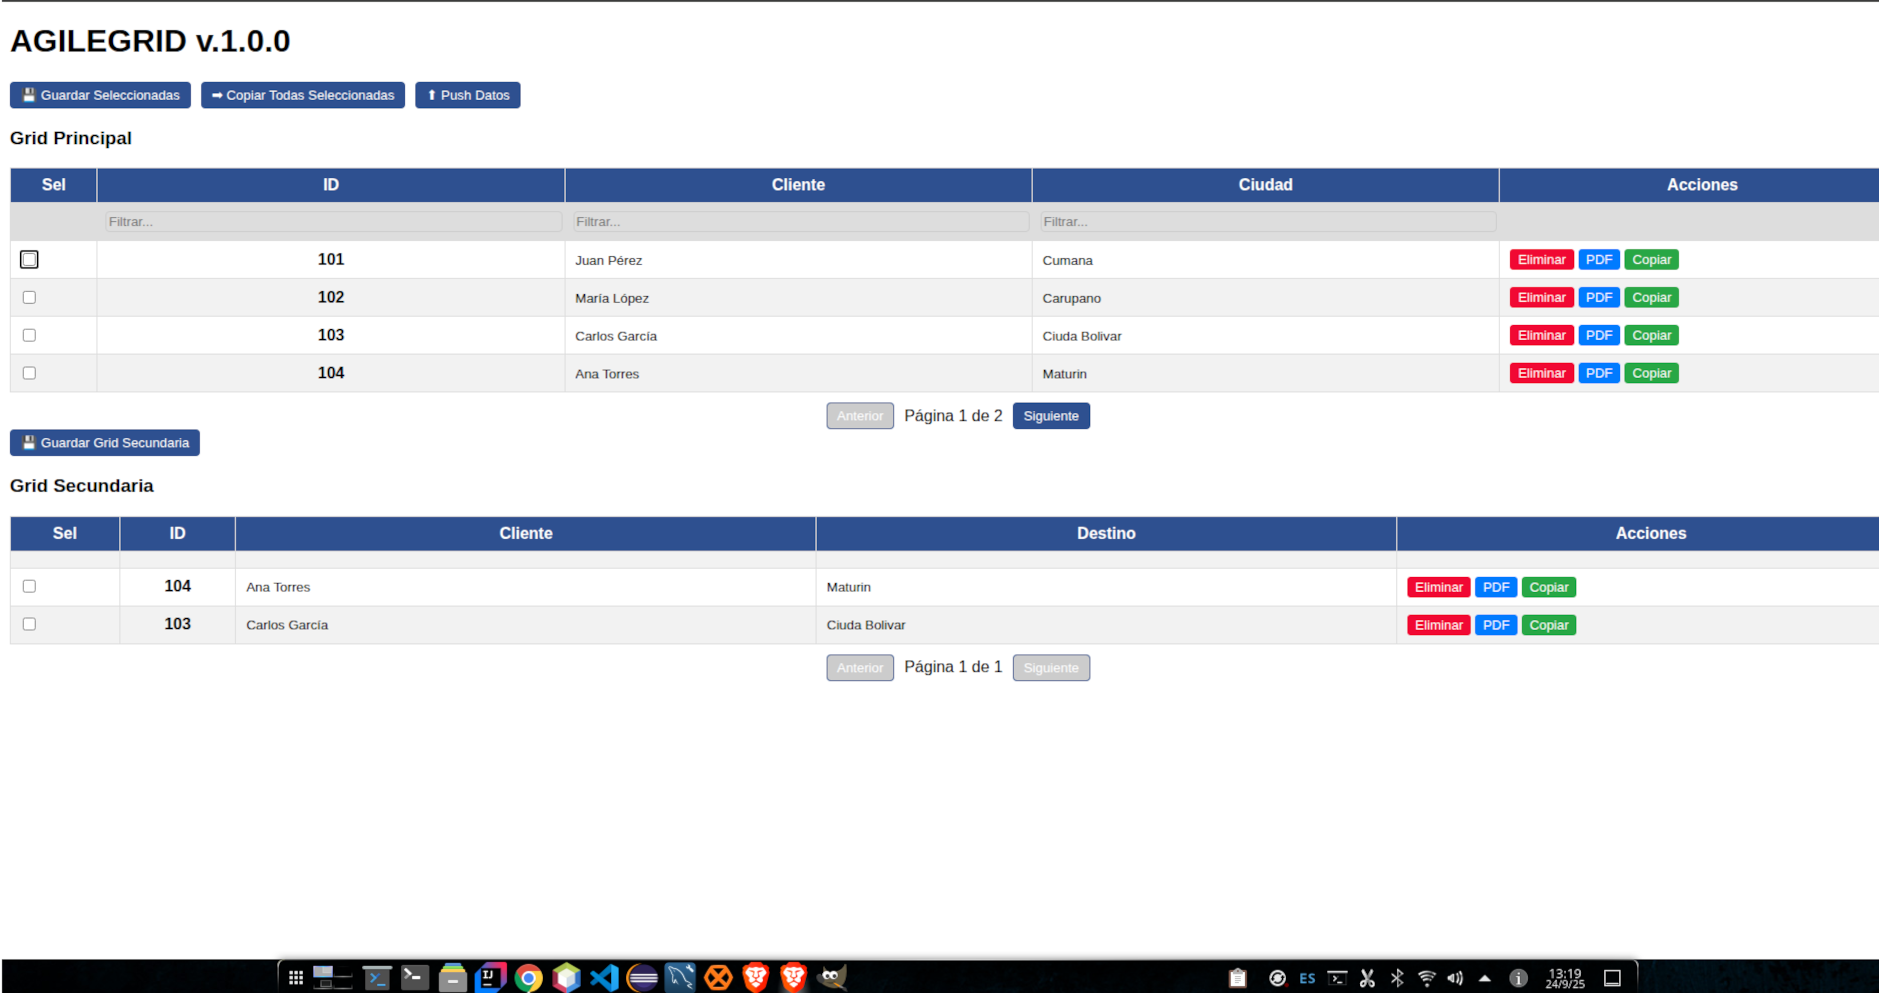
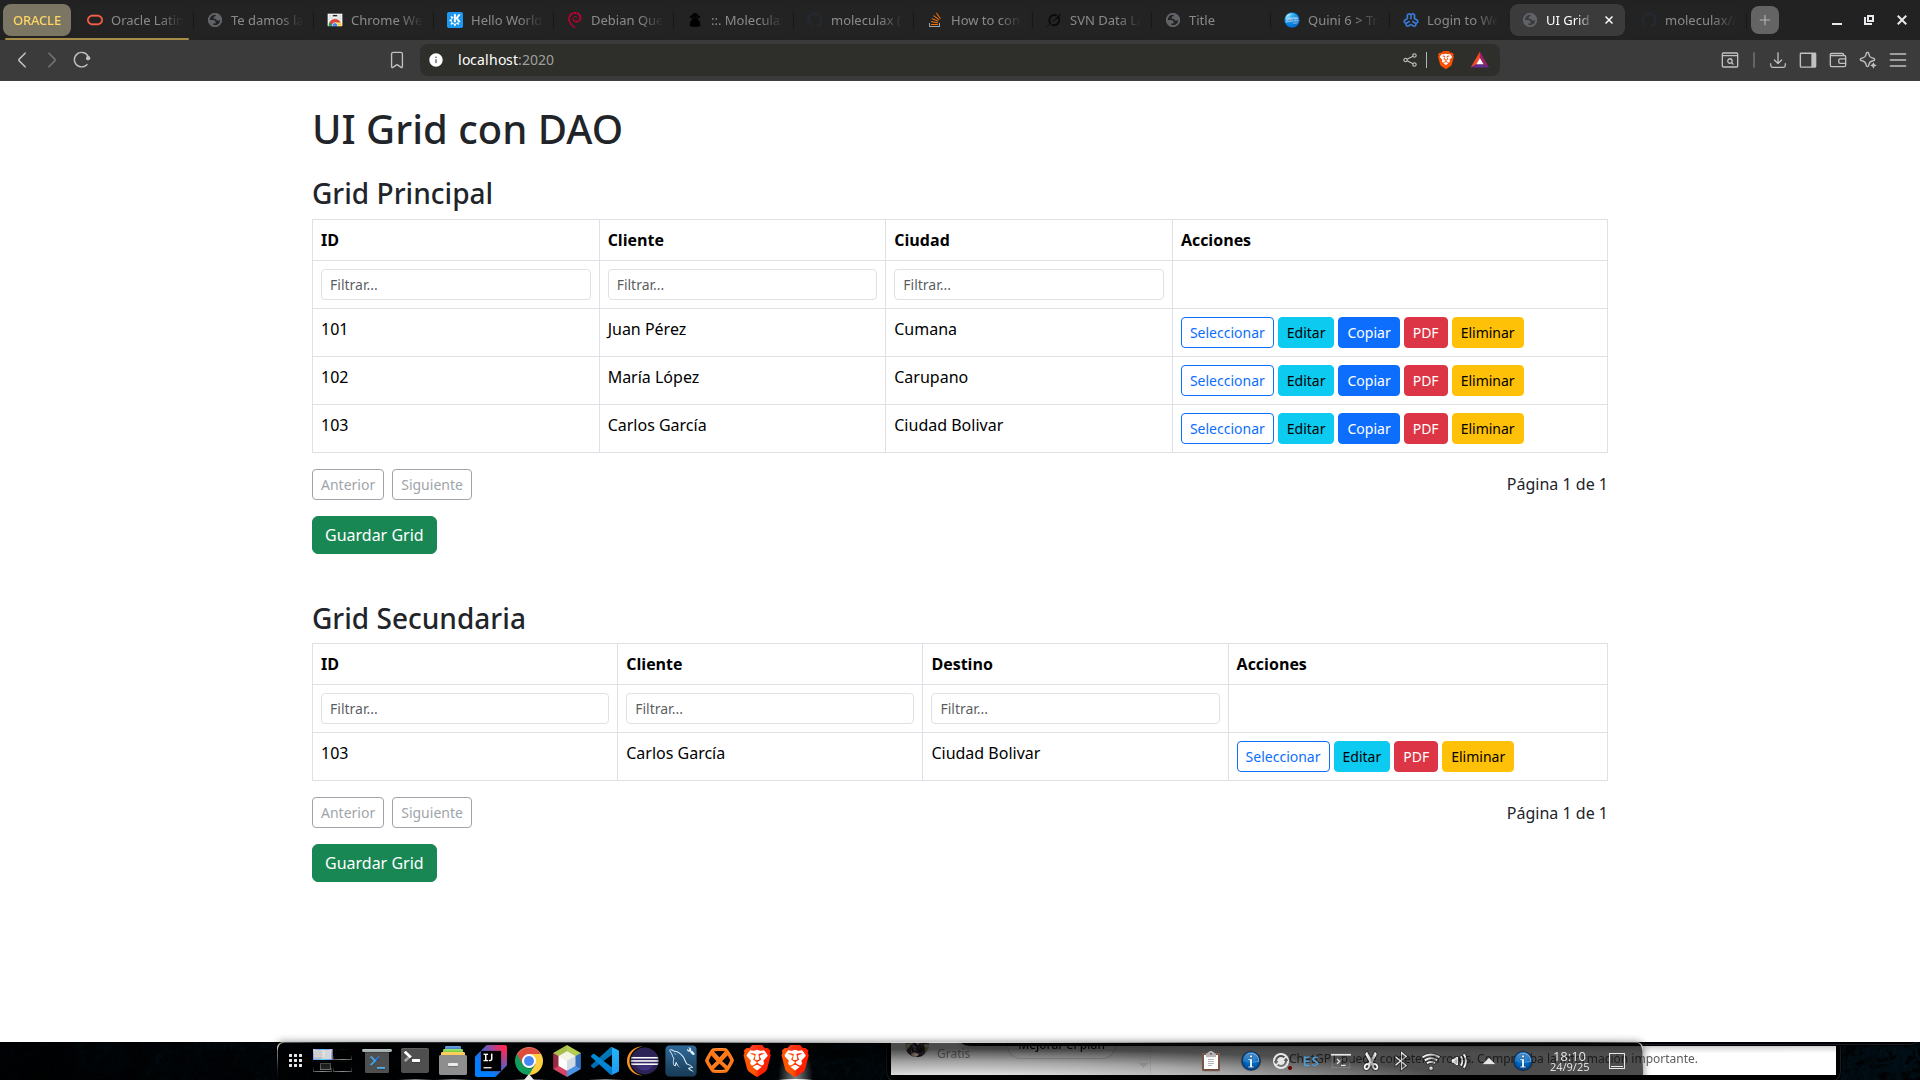
V1.0.0

diff --git a/index.html b/index.html
@@ -1,34 +1,26 @@
 <!DOCTYPE html>
 <html lang="es">
 <head>
-<meta charset="UTF-8">
-<title>Grid Genérico Editable</title>
-<link rel="stylesheet" href="src/css/style.css">
+  <meta charset="UTF-8">
+  <title>UI Grid con DAO</title>
+  <link rel="stylesheet" href="https://cdn.jsdelivr.net/npm/bootstrap@5.3.2/dist/css/bootstrap.min.css">
+  
+  <!-- Grid class and init -->
+   <!-- TIENES QUE MATENER ESTE ORDEN -->
+  <script src="src/js/grid.js"></script>
+  <script src="src/js/initGrid.js" defer></script>
+  
 </head>
-<body>
+<body class="container mt-4">
+  <h1 class="mb-4">UI Grid con DAO</h1>
 
-<h1>AGILEGRID v.1.0.0</h1>
-<div class="botonera">
-<button class="btn-guardar" id="guardarGrid">💾 Guardar Seleccionadas</button>
-<button class="btn-push-multi" id="copiarSeleccionadas">➡ Copiar Todas Seleccionadas</button>
-<button class="btn-push" id="pushDatos">⬆ Push Datos</button>
-</div>
+  <h3>Grid Principal</h3>
+  <div id="miGrid"></div>
 
+  <h3 class="mt-5">Grid Secundaria</h3>
+  <div id="gridDestino"></div>
 
-<h3>Grid Principal</h3>
-<div id="miGrid"></div>
-
-
-<div class="botonera">
-<button class="btn-guardar" id="guardarGridDestino">💾 Guardar Grid Secundaria</button>
-</div>
-
-
-<h3>Grid Secundaria</h3>
-<div id="gridDestino"></div>
-
-
-<script src="src/js/script.js"></script>
-
+  <!-- librería para PDF -->
+  <script src="https://cdnjs.cloudflare.com/ajax/libs/jspdf/2.5.1/jspdf.umd.min.js"></script>
 </body>
 </html>
